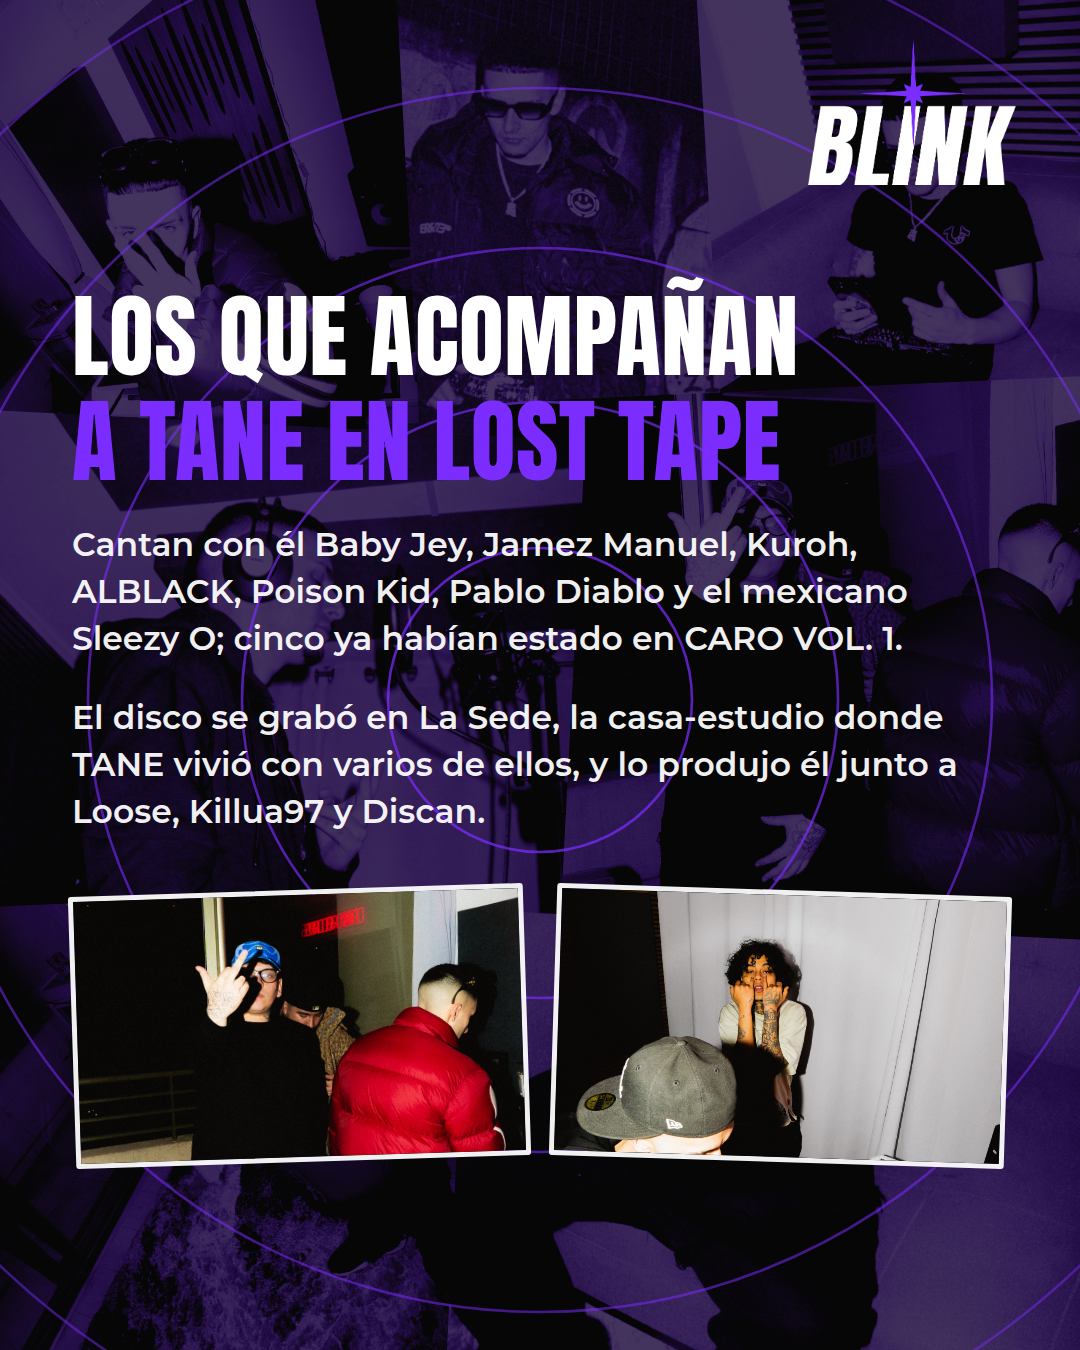
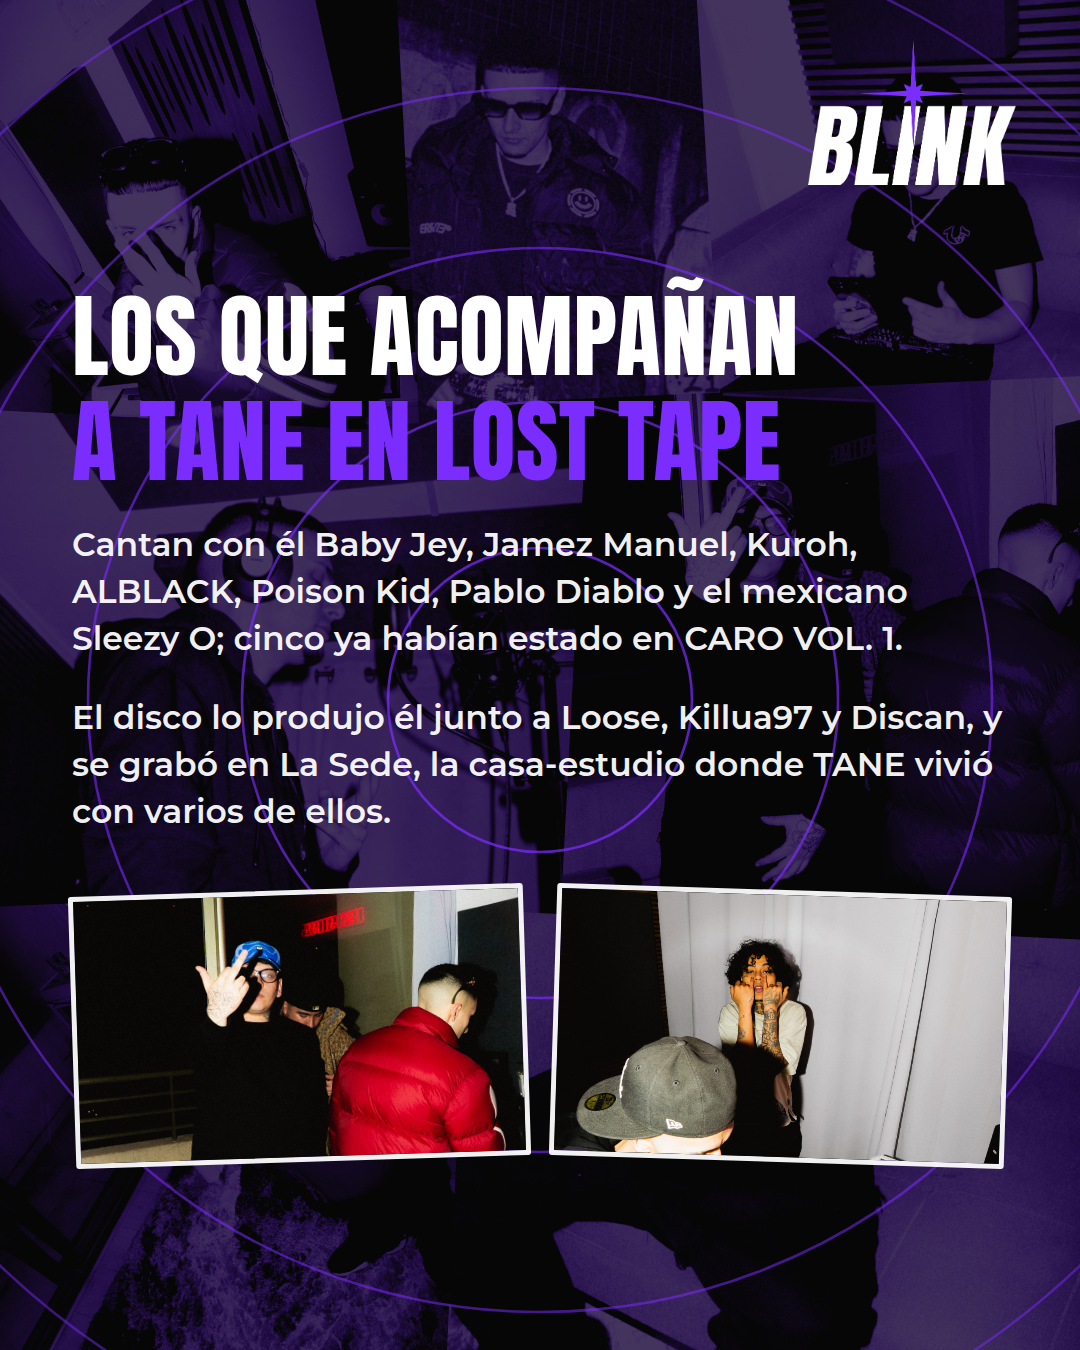
Blink Radar TANE: últimos textos de Mia y el encuadre del casete calculado
- La lámina de CARO lleva "viene ordenando su música, y que además lleva el
  mismo nombre que su propio estudio".
- Las tres fotos del casete ahora quedan con la cabeza pegada al borde
  superior sin cortarla: el encuadre de cada una se calculó a partir de su
  tamaño real y de dónde cae la cabeza, en vez de ir a ojo.
- El segundo párrafo de la lámina de los acompañantes queda como lo escribió
  Mia: primero la producción y después dónde se grabó.

Claude-Session: https://claude.ai/code/session_01NF4PN4Z1tGA2GQg6PseM5W

Changed region(s): [[0.0611, 0.4978, 0.9167, 0.6222]]

diff --git a/radar-tane.html b/radar-tane.html
@@ -171,9 +171,9 @@
   }
   .cinta .ventana div{ flex:1; height:210px; overflow:hidden; border-radius:3px; }
   .cinta .ventana img{ width:100%; height:100%; object-fit:cover; }
-  .cinta .ventana div:nth-child(1) img{ object-position:50% 6%; }
-  .cinta .ventana div:nth-child(2) img{ object-position:50% 18%; }
-  .cinta .ventana div:nth-child(3) img{ object-position:50% 14%; }
+  .cinta .ventana div:nth-child(1) img{ object-position:50% 20%; }
+  .cinta .ventana div:nth-child(2) img{ object-position:50% 37%; }
+  .cinta .ventana div:nth-child(3) img{ object-position:50% 32%; }
   .cinta .carretes{
     margin-top:16px; display:flex; align-items:center; justify-content:space-between;
     padding:0 42px;
@@ -319,8 +319,9 @@ const LAMINAS = {
   3: { html:
     '<div class="cuerpo">' +
       titular("CARO no es un disco,", "es su serie entera") +
-      '<p class="texto">CARO es la serie numerada con la que TANE viene ordenando todo ' +
-      'lo que publica, y lleva el mismo nombre que su estudio. El primer volumen salió ' +
+      '<p class="texto">CARO es la serie numerada con la que TANE viene ordenando su ' +
+      'música, y que además lleva el mismo nombre que su propio estudio. El primer ' +
+      'volumen salió ' +
       'en diciembre de 2023 con seis canciones, y del segundo él dijo que iba a tener ' +
       '<span class="dijo">“una propuesta un poco más seria”</span>.</p>' +
       '<div class="destacado">' + DESTELLO +
@@ -357,8 +358,8 @@ const LAMINAS = {
       '<p class="texto">Cantan con él Baby Jey, Jamez Manuel, Kuroh, ALBLACK, Poison ' +
       'Kid, Pablo Diablo y el mexicano Sleezy O; cinco ya habían estado en ' +
       'CARO VOL. 1.</p>' +
-      '<p class="texto">El disco se grabó en La Sede, la casa-estudio donde TANE vivió ' +
-      'con varios de ellos, y lo produjo él junto a Loose, Killua97 y Discan.</p>' +
+      '<p class="texto">El disco lo produjo él junto a Loose, Killua97 y Discan, y se ' +
+      'grabó en La Sede, la casa-estudio donde TANE vivió con varios de ellos.</p>' +
       '<div class="parDeFotos">' +
         '<figure><img src="TANE 9.JPEG" alt=""></figure>' +
         '<figure><img src="TANE 5.JPEG" alt=""></figure>' +
